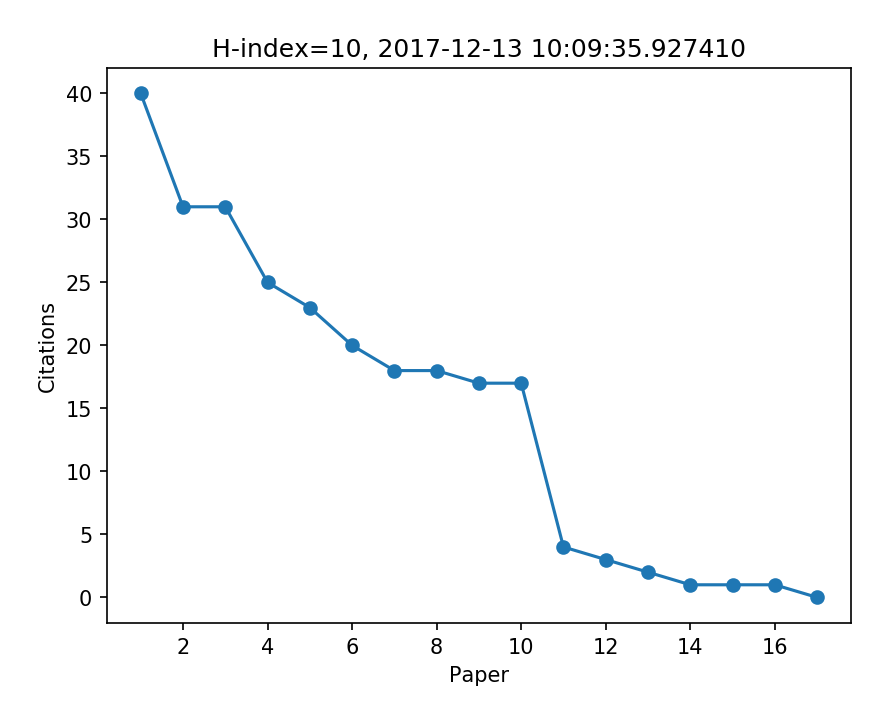
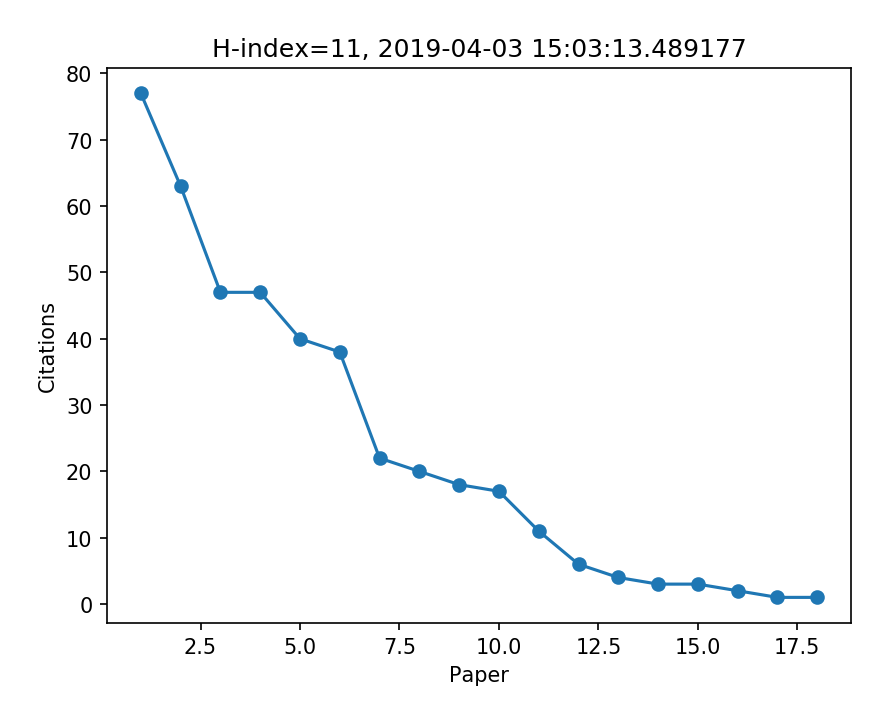
update to use ADS API

diff --git a/vis-a-vis.py b/vis-a-vis.py
@@ -12,7 +12,8 @@ you could script it with cron, if you want
 '''
 
 import os
-import subprocess
+# import subprocess
+import ads
 import numpy as np
 import matplotlib.pyplot as plt
 import datetime
@@ -29,74 +30,50 @@ def h_indx(num):
     return sum(fnum[s] >= ind)
 
 
-home = os.path.expanduser("~")
-dir = home + '/python/vis-a-vis/'
-papers = 'papers.tbl'
+def run_papers(papers = 'papers.tbl', dir = '/python/vis-a-vis/', makefig=True):
+    home = os.path.expanduser("~")
+    run_dir = home + dir
 
-# read in the papers.tbl file
-# url, num = np.loadtxt(dir + papers, dtype='str',
-#                       delimiter=',', unpack=True)
+    # read in the papers.tbl file
+    df = read_csv(run_dir + papers, names=('bibcodes', 'num'))
+    bibcodes = df['bibcodes'].values
+    num = np.array(df['num'].values, dtype='float')
+    h0 = h_indx(num)
 
-df = read_csv(dir + papers, names=('url', 'num'))
-num = np.array(df['num'].values, dtype='float')
-url = df['url'].values
+    for k in range(len(bibcodes)):
+        article = list(ads.SearchQuery(bibcode=bibcodes[k], fl=['citation_count']))[0]
+        num[k] = article.citation_count
 
-h0 = h_indx(num)
+    ss = np.argsort(num)
 
-## TO DO
-## redo this with urllib2 or beautiful soup, not downloading with wget like a chump
-## instead of grep and sed use pythonic regular expressions, etc
-## send email (maybe with linux mail command) when done if new papers found
-## use ADS API (but, needs dev key)
+    # write updated output file
+    # np.savetxt(papers, np.column_stack((url, num)), delimiter=',', fmt="%s")
+    dfout = DataFrame(data = {'a':bibcodes[ss], 'b':num[ss]})
+    dfout.to_csv(run_dir + papers, header=False, index=False, index_label=False, columns=['a', 'b'], encoding='ascii')
 
-for i in range(0,len(url)):
-    # run wget on each URL
-    os.system('wget '+url[i]+' -O ' + dir + 'test'+str(i)+'.html -q')
+    # if h-index goes up, alert
+    h1 = h_indx(num)
 
-    # use grep to scrape out the number of citations
-    o = subprocess.check_output('grep ">Citations to the Article" '+dir+'test'+
-                                str(i)+'.html | wc',shell=True)
-    yn = float( o.split()[0] )
+    if h1>h0:
+        print( 'h-index increased from '+str(h0)+' to '+str(h1))
+    else:
+        print( 'h-index still is '+str(h1))
 
-    # if that = 0, then no hits
-    if (yn != 0):
-        o2 = float(
-            subprocess.check_output('grep ">Citations to the Article (" '+dir+'test'+
-                                    str(i)+'.html | sed "s|[^(]*(\([^)]*\)).*|\\1|"',
-                                    shell=True) )
-        #print o2==float(num[i])
-        if (o2 != float(num[i])):
-            print(str(int(o2-float(num[i]))) +
-                  ' new citations for paper '+url[i])
-            print('\a') # make the computer "beep"
-
-            num[i] = str(int(o2))
-
-    os.system('rm test'+str(i)+'.html')
+    # make a figure
+    if makefig:
+        plt.figure()
+        plt.plot(np.arange(1,len(num)+1), num[ss][::-1], '-o')
+        plt.title('H-index='+str(h1)+', '+str(datetime.datetime.today()))
+        plt.xlabel('Paper')
+        plt.ylabel('Citations')
+        plt.savefig(run_dir + 'cite_count.png', dpi=150, bbox_inches='tight', pad_inches=0.25)
+        plt.close()
 
 
-ss = np.argsort(num)
 
-# write updated output file
-# np.savetxt(papers, np.column_stack((url, num)), delimiter=',', fmt="%s")
-dfout = DataFrame(data = {'a':url[ss], 'b':num[ss]})
-dfout.to_csv(dir + papers, header=False, index=False, index_label=False, columns=['a', 'b'], encoding='ascii')
-
-
-# if h-index goes up, alert
-h1 = h_indx(num)
-
-if h1>h0:
-    print( 'h-index increased from '+str(h0)+' to '+str(h1))
-else:
-    print( 'h-index still is '+str(h1))
-
-
-# make a figure
-plt.figure()
-plt.plot(np.arange(1,len(num)+1), num[ss][::-1], '-o')
-plt.title('H-index='+str(h1)+', '+str(datetime.datetime.today()))
-plt.xlabel('Paper')
-plt.ylabel('Citations')
-plt.savefig(dir + 'cite_count.png', dpi=150, bbox_inches='tight', pad_inches=0.25)
-plt.close()
+if __name__ == "__main__":
+    '''
+      let this file be called from the terminal directly. e.g.:
+      $ python vis-a-vis.py
+    '''
+    run_papers()

diff --git a/README.md b/README.md
@@ -1,8 +1,13 @@
 vis-a-vis
 =========
 
-A simple Python+shell script to check if your papers have been cited on ADS. **Requires ADS Classic** 
+## Install
 
-Works on Mac, probably on Linux just fine. Doubtful on Windows.
+1. Get an [ADS API key](https://github.com/adsabs/adsabs-dev-api#access)
+2. Install the [ads Python package](https://ads.readthedocs.io/en/latest/#getting-started)
+3. Put your API key in `~/.ads/dev_key`, as instructed in Step 2
+4. Download/clone this repo
+5. populate `papers.tbl` file with the bibcodes for your papers
+6. run `python vis-a-vis.py`
 
-Uses Linux `wget` to retrieve a predefined list of papers (ADS URLs). Scrapes information using `grep` and `sed`. Returns notice if new citation found, or if [h-index](http://en.wikipedia.org/wiki/H-index) *for the selected papers* goes up.
+A simple Python+ script to check if selected papers have been cited on ADS. Returns notice if new citation found, or if [h-index](http://en.wikipedia.org/wiki/H-index) *for the selected papers* goes up.
